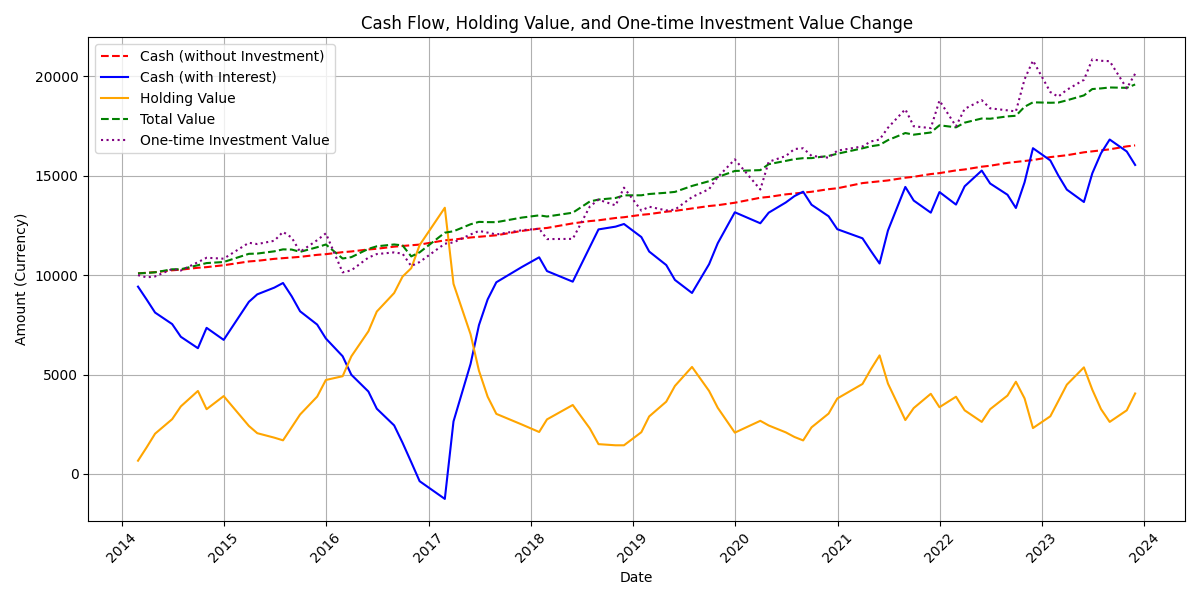
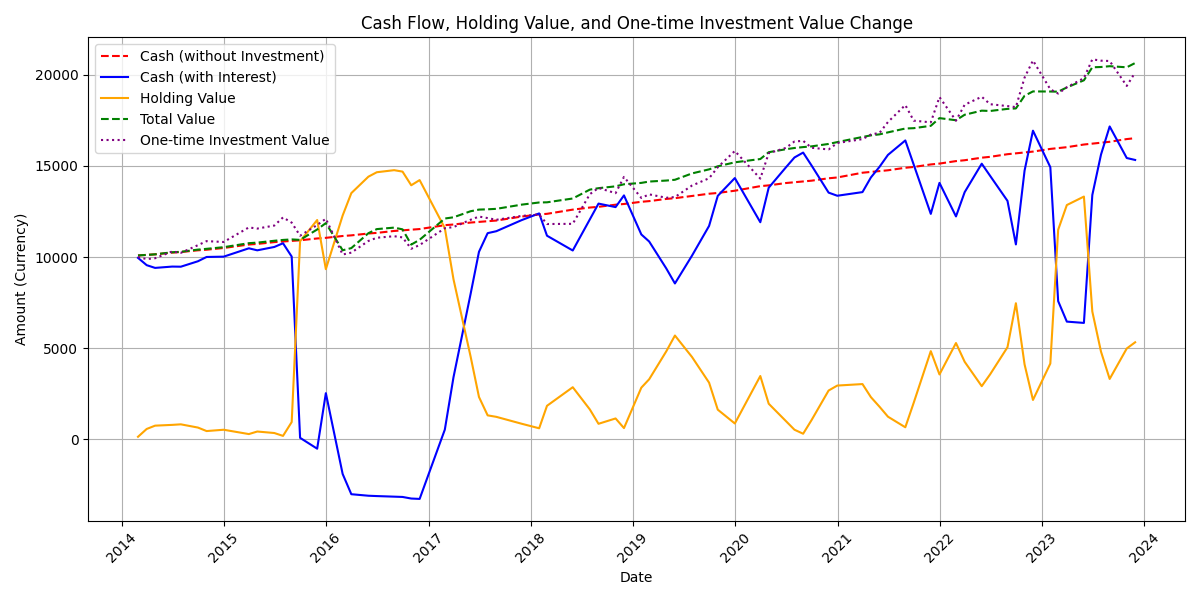
修改卖出策略和越跌越买策略

diff --git a/test.py b/test.py
@@ -74,7 +74,9 @@ class CustomInvestmentStrategy:
         #remaining_months =  max_recovery_months
 
         # 开始投资模拟
-        monthly_investment = self.total_investment / max_recovery_months
+        monthly_investment = self.total_investment / max_recovery_months 
+        monthly_investment = monthly_investment * 0.2 # 增加每月初始投资金额来增加波动进而增加收益
+        monthly_investment_initial = monthly_investment
         for date in times:
             # 计算从上一次投资到当前日期的天数
             days_diff = (date - self.last_investment_date).days
@@ -101,10 +103,10 @@ class CustomInvestmentStrategy:
             if self.last_price is not None:
                 price_change = (price - self.last_price)/self.last_price
                 if price_change > 0:
-                    monthly_investment /= (1 + price_change)  # 上涨减少每月投资金额
+                    monthly_investment /= (1 + 300*price_change)  # 上涨减少每月投资金额
                     #monthly_investment = monthly_investment 
                 else :
-                    monthly_investment *= (1 - 2*price_change)  # 下跌增加每月投资金额
+                    monthly_investment *= (1 - 200*price_change)  # 下跌增加每月投资金额
             else:
                 price_change = 0
             
@@ -123,26 +125,36 @@ class CustomInvestmentStrategy:
 
             # 根据当前持仓的收益涨幅进行卖出判断
             if holding_gain_percentage > 10:
-                sell_amount = self.holding /2
+                sell_amount = self.holding  /2
                 self.cash += sell_amount * price
                 self.holding -= sell_amount
                 # 更新持仓成本
                 #self.holding_cost -= (sell_amount * price) / self.holding  # 更新持仓成本（按比例分配）
-                self.holding_cost *= 1/2  # 更新持仓成本（按比例分配）
+                self.holding_cost *= 1/2 # 更新持仓成本（按比例分配）
                 last_sell_month = (current_year, current_month)  # 更新上一个卖出月份
-                monthly_investment = self.total_investment / max_recovery_months  # 重新计算每月投资金额
-                print(f"在 {date.date()} 卖出一半，持仓: {self.holding}, 现金: {self.cash}")
-
-            elif holding_gain_percentage > 5:
-                sell_amount = self.holding / 3
+                monthly_investment = monthly_investment_initial  # 重新计算每月投资金额
+                print(f"在 {date.date()} 全部卖出，持仓: {self.holding}, 现金: {self.cash}")
+            elif holding_gain_percentage > 8:
+                sell_amount = self.holding /3
                 self.cash += sell_amount * price
                 self.holding -= sell_amount
                 # 更新持仓成本
                 #self.holding_cost -= (sell_amount * price) / self.holding  # 更新持仓成本（按比例分配）
                 self.holding_cost *= 2/3  # 更新持仓成本（按比例分配）
                 last_sell_month = (current_year, current_month)  # 更新上一个卖出月份
+                monthly_investment = monthly_investment_initial  # 重新计算每月投资金额
+                print(f"在 {date.date()} 卖出一半，持仓: {self.holding}, 现金: {self.cash}")
+
+            elif holding_gain_percentage > 5:
+                sell_amount = self.holding / 4
+                self.cash += sell_amount * price
+                self.holding -= sell_amount
+                # 更新持仓成本
+                #self.holding_cost -= (sell_amount * price) / self.holding  # 更新持仓成本（按比例分配）
+                self.holding_cost *= 3/4  # 更新持仓成本（按比例分配）
+                last_sell_month = (current_year, current_month)  # 更新上一个卖出月份
                 print(f"在 {date.date()} 卖出三分之一，持仓: {self.holding}, 现金: {self.cash}")
-                monthly_investment = self.total_investment / max_recovery_months  # 重新计算每月投资金额
+                monthly_investment = monthly_investment_initial  # 重新计算每月投资金额
             self.last_price = price
             self.last_investment_date = date  # 更新最后投资日期
 
